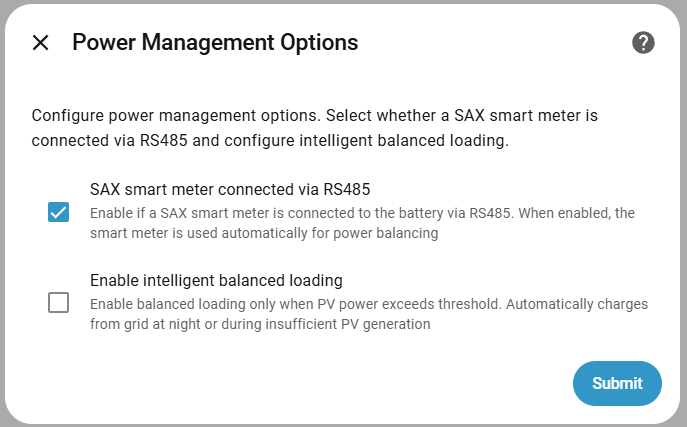
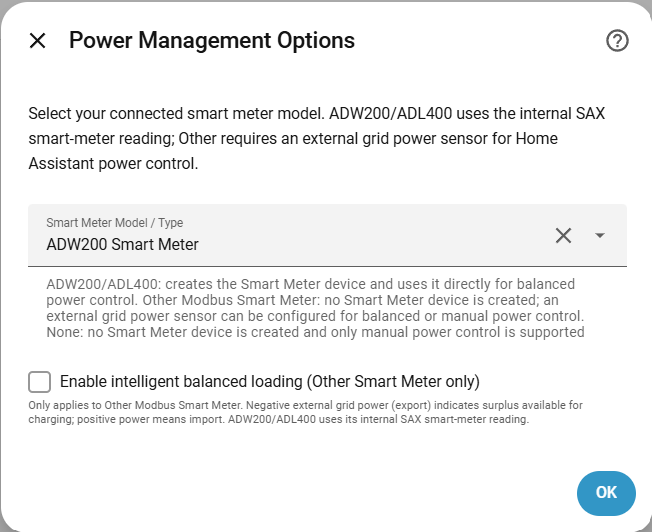
update screen-shots

Changed region(s): [[0.0, 0.0, 1.0, 1.0], [0.0613, 0.3958, 0.9509, 0.6698], [0.8282, 0.4262, 0.8896, 0.4567]]

diff --git a/tests/test_switch.py b/tests/test_switch.py
@@ -819,6 +819,7 @@ class TestSAXBatteryControlSwitch:
                 "homeassistant.helpers.update_coordinator.CoordinatorEntity.async_added_to_hass",
                 new_callable=AsyncMock,
             ),
+            patch.object(switch, "async_write_ha_state") as write_state,
             patch.object(
                 switch,
                 "async_get_last_state",
@@ -835,9 +836,11 @@ class TestSAXBatteryControlSwitch:
             )
             assert entry.data[CONF_ENABLE_PV_CHARGING] is enabled
             assert switch.is_on is enabled
+            write_state.assert_called_once()
         else:
             mock_control_coordinator.power_manager.set_pv_charging_mode.assert_not_awaited()
             assert entry.data[CONF_ENABLE_PV_CHARGING] is False
+            write_state.assert_not_called()
 
     async def test_grid_switch_does_not_restore_last_state(
         self, hass: HomeAssistant, mock_control_coordinator, mock_sax_item_control

diff --git a/custom_components/sax_battery/switch.py b/custom_components/sax_battery/switch.py
@@ -507,6 +507,7 @@ class SAXBatteryControlSwitch(
                     CONF_ENABLE_PV_CHARGING: enabled,
                 },
             )
+        self.async_write_ha_state()
 
     @property
     def entity_registry_enabled_default(self) -> bool:

diff --git a/README.md b/README.md
@@ -190,7 +190,11 @@ Before you begin:
 
    ![Power monitor sensor](assets/conf-power-sensor.png)
 
-6. **Enter Battery Network Information**
+6. **Select Protocol Options**
+
+    ![Configure Protocol Options](assets/conf-protocol-mode.png)
+
+7. **Enter Battery Network Information**
 
    For each battery, you'll need:
    - **IP Address**: Your battery's network address (from the steps above)
@@ -200,7 +204,7 @@ Before you begin:
 
    ![Configure Battery Connection](assets/conf-connection.png)
 
-7. **Finish Setup**
+8. **Finish Setup**
 
    Add location area and click **FINISH**.
 
